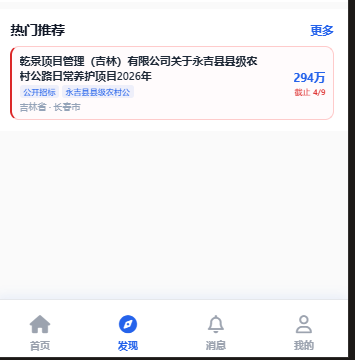
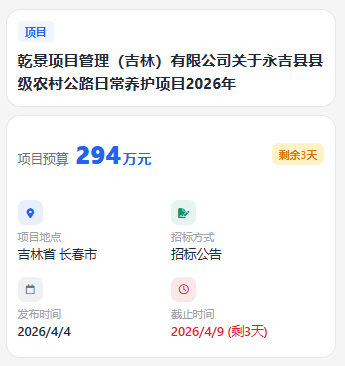
ui: 详情页面样式紧凑优化
- 减小标题字体 17→15px
- 减小预算数字 28→22px
- 减小标签字体 12→10px
- 减小信息标签 12→10px，信息值 14→12px
- 减小图标尺寸 28→24px
- 减小内容文字 15→13px，行高 26→22px
- 减小卡片内边距 Spacing.md→Spacing.sm
- 减小各区域间距
- 优化底部按钮样式

diff --git a/client/screens/detail/styles.ts b/client/screens/detail/styles.ts
@@ -56,53 +56,53 @@ export const createStyles = (theme: Theme) => {
     titleCard: {
       backgroundColor: '#FFFFFF',
       marginHorizontal: Spacing.md,
-      marginTop: Spacing.md,
+      marginTop: Spacing.sm,
       borderRadius: BorderRadius.lg,
-      padding: Spacing.md,
+      padding: Spacing.sm,
       borderWidth: 1,
       borderColor: '#E5E7EB',
     },
     titleTop: {
       flexDirection: 'row',
       alignItems: 'center',
-      marginBottom: Spacing.sm,
+      marginBottom: Spacing.xs,
     },
     categoryBadge: {
       backgroundColor: '#EFF6FF',
-      paddingHorizontal: Spacing.sm,
-      paddingVertical: 3,
-      borderRadius: 4,
+      paddingHorizontal: Spacing.xs,
+      paddingVertical: 2,
+      borderRadius: 3,
     },
     categoryText: {
-      fontSize: 12,
+      fontSize: 10,
       color: '#2563EB',
       fontWeight: '600',
     },
     urgentBadge: {
       backgroundColor: '#FEF2F2',
-      marginLeft: Spacing.sm,
-      paddingHorizontal: Spacing.sm,
-      paddingVertical: 3,
-      borderRadius: 4,
+      marginLeft: Spacing.xs,
+      paddingHorizontal: Spacing.xs,
+      paddingVertical: 2,
+      borderRadius: 3,
     },
     urgentText: {
-      fontSize: 12,
+      fontSize: 10,
       color: '#DC2626',
       fontWeight: '600',
     },
     title: {
-      fontSize: 17,
+      fontSize: 15,
       fontWeight: '700',
       color: '#1F2937',
-      lineHeight: 26,
+      lineHeight: 22,
     },
     // 核心信息卡片
     coreInfoCard: {
       backgroundColor: '#FFFFFF',
       marginHorizontal: Spacing.md,
-      marginTop: Spacing.sm,
+      marginTop: Spacing.xs,
       borderRadius: BorderRadius.lg,
-      padding: Spacing.md,
+      padding: Spacing.sm,
       borderWidth: 1,
       borderColor: '#E5E7EB',
     },
@@ -111,37 +111,37 @@ export const createStyles = (theme: Theme) => {
       flexDirection: 'row',
       alignItems: 'center',
       justifyContent: 'space-between',
-      paddingVertical: Spacing.md,
-      marginBottom: Spacing.md,
+      paddingVertical: Spacing.sm,
+      marginBottom: Spacing.xs,
     },
     budgetLeft: {
       flexDirection: 'row',
       alignItems: 'baseline',
     },
     budgetLabel: {
-      fontSize: 14,
+      fontSize: 12,
       color: '#6B7280',
-      marginRight: Spacing.sm,
+      marginRight: Spacing.xs,
     },
     budgetValue: {
-      fontSize: 28,
+      fontSize: 22,
       fontWeight: '800',
       color: '#2563EB',
     },
     budgetUnit: {
-      fontSize: 16,
+      fontSize: 14,
       color: '#2563EB',
       fontWeight: '600',
       marginLeft: 2,
     },
     budgetBadge: {
       backgroundColor: '#FEF3C7',
-      paddingHorizontal: Spacing.sm,
-      paddingVertical: 4,
-      borderRadius: 8,
+      paddingHorizontal: Spacing.xs,
+      paddingVertical: 3,
+      borderRadius: 6,
     },
     budgetBadgeText: {
-      fontSize: 12,
+      fontSize: 10,
       color: '#D97706',
       fontWeight: '600',
     },
@@ -152,23 +152,23 @@ export const createStyles = (theme: Theme) => {
     },
     infoItem: {
       width: '50%',
-      paddingVertical: Spacing.sm,
+      paddingVertical: Spacing.xs,
     },
     infoIcon: {
-      width: 28,
-      height: 28,
-      borderRadius: 8,
+      width: 24,
+      height: 24,
+      borderRadius: 6,
       justifyContent: 'center',
       alignItems: 'center',
-      marginBottom: 4,
+      marginBottom: 3,
     },
     infoLabel: {
-      fontSize: 12,
+      fontSize: 10,
       color: '#9CA3AF',
-      marginBottom: 2,
+      marginBottom: 1,
     },
     infoValue: {
-      fontSize: 14,
+      fontSize: 12,
       color: '#1F2937',
       fontWeight: '500',
     },
@@ -179,31 +179,31 @@ export const createStyles = (theme: Theme) => {
     sectionCard: {
       backgroundColor: '#FFFFFF',
       marginHorizontal: Spacing.md,
-      marginTop: Spacing.sm,
+      marginTop: Spacing.xs,
       borderRadius: BorderRadius.lg,
-      padding: Spacing.md,
+      padding: Spacing.sm,
       borderWidth: 1,
       borderColor: '#E5E7EB',
     },
     sectionHeader: {
       flexDirection: 'row',
       alignItems: 'center',
-      marginBottom: Spacing.sm,
-      paddingBottom: Spacing.sm,
+      marginBottom: Spacing.xs,
+      paddingBottom: Spacing.xs,
       borderBottomWidth: 1,
       borderBottomColor: '#F3F4F6',
     },
     sectionIcon: {
-      width: 28,
-      height: 28,
-      borderRadius: 8,
+      width: 24,
+      height: 24,
+      borderRadius: 6,
       backgroundColor: 'rgba(37,99,235,0.1)',
       justifyContent: 'center',
       alignItems: 'center',
-      marginRight: Spacing.sm,
+      marginRight: Spacing.xs,
     },
     sectionTitle: {
-      fontSize: 15,
+      fontSize: 13,
       fontWeight: '600',
       color: '#1F2937',
     },
@@ -211,22 +211,22 @@ export const createStyles = (theme: Theme) => {
     contactCard: {
       backgroundColor: '#FFFFFF',
       marginHorizontal: Spacing.md,
-      marginTop: Spacing.sm,
+      marginTop: Spacing.xs,
       borderRadius: BorderRadius.lg,
-      padding: Spacing.md,
+      padding: Spacing.sm,
       borderWidth: 1,
       borderColor: '#E5E7EB',
     },
     contactHeader: {
       flexDirection: 'row',
       alignItems: 'center',
-      marginBottom: Spacing.sm,
+      marginBottom: Spacing.xs,
     },
     contactTitle: {
-      fontSize: 14,
+      fontSize: 13,
       fontWeight: '600',
       color: '#1F2937',
-      marginLeft: Spacing.sm,
+      marginLeft: Spacing.xs,
     },
     contactItem: {
       flexDirection: 'row',
@@ -234,21 +234,21 @@ export const createStyles = (theme: Theme) => {
       paddingVertical: Spacing.xs,
     },
     contactIcon: {
-      width: 28,
-      height: 28,
-      borderRadius: 8,
+      width: 24,
+      height: 24,
+      borderRadius: 6,
       backgroundColor: '#F3F4F6',
       justifyContent: 'center',
       alignItems: 'center',
-      marginRight: Spacing.sm,
+      marginRight: Spacing.xs,
     },
     contactLabel: {
-      fontSize: 13,
+      fontSize: 11,
       color: '#6B7280',
-      width: 60,
+      width: 50,
     },
     contactValue: {
-      fontSize: 14,
+      fontSize: 12,
       color: '#1F2937',
       flex: 1,
     },
@@ -258,26 +258,26 @@ export const createStyles = (theme: Theme) => {
     },
     // 内容文本
     docContent: {
-      fontSize: 15,
-      lineHeight: 26,
+      fontSize: 13,
+      lineHeight: 22,
       color: '#374151',
     },
     // 来源行
     sourceRow: {
       flexDirection: 'row',
       alignItems: 'center',
-      marginTop: Spacing.md,
-      paddingTop: Spacing.sm,
+      marginTop: Spacing.sm,
+      paddingTop: Spacing.xs,
       borderTopWidth: 1,
       borderTopColor: '#F3F4F6',
     },
     sourceLabel: {
-      fontSize: 11,
+      fontSize: 10,
       color: '#9CA3AF',
-      marginRight: Spacing.sm,
+      marginRight: Spacing.xs,
     },
     sourceValue: {
-      fontSize: 11,
+      fontSize: 10,
       color: '#6B7280',
     },
     // 底部操作栏
@@ -300,8 +300,8 @@ export const createStyles = (theme: Theme) => {
       flexDirection: 'row',
       alignItems: 'center',
       justifyContent: 'center',
-      paddingVertical: Spacing.sm + 2,
-      borderRadius: 12,
+      paddingVertical: Spacing.sm,
+      borderRadius: 10,
       backgroundColor: '#F3F4F6',
       marginRight: Spacing.sm,
     },
@@ -310,7 +310,7 @@ export const createStyles = (theme: Theme) => {
     },
     collectButtonText: {
       color: '#6B7280',
-      fontSize: 14,
+      fontSize: 12,
       fontWeight: '600',
       marginLeft: Spacing.xs,
     },
@@ -323,18 +323,18 @@ export const createStyles = (theme: Theme) => {
       flexDirection: 'row',
       alignItems: 'center',
       justifyContent: 'center',
-      paddingVertical: Spacing.sm + 2,
-      borderRadius: 12,
+      paddingVertical: Spacing.sm,
+      borderRadius: 10,
       backgroundColor: '#2563EB',
       shadowColor: '#2563EB',
-      shadowOffset: { width: 0, height: 4 },
-      shadowOpacity: 0.3,
-      shadowRadius: 8,
-      elevation: 4,
+      shadowOffset: { width: 0, height: 2 },
+      shadowOpacity: 0.25,
+      shadowRadius: 4,
+      elevation: 3,
     },
     callButtonText: {
       color: '#FFFFFF',
-      fontSize: 15,
+      fontSize: 13,
       fontWeight: '700',
       marginLeft: Spacing.xs,
     },
@@ -347,14 +347,14 @@ export const createStyles = (theme: Theme) => {
     },
     loadingText: {
       marginTop: Spacing.sm,
-      fontSize: 14,
+      fontSize: 13,
       color: '#6B7280',
     },
     // 免责声明包装
     disclaimerWrap: {
       marginHorizontal: Spacing.md,
-      marginTop: Spacing.lg,
-      marginBottom: Spacing.md,
+      marginTop: Spacing.sm,
+      marginBottom: Spacing.sm,
     },
     // ========== 预约对话框 ==========
     modalOverlay: {
